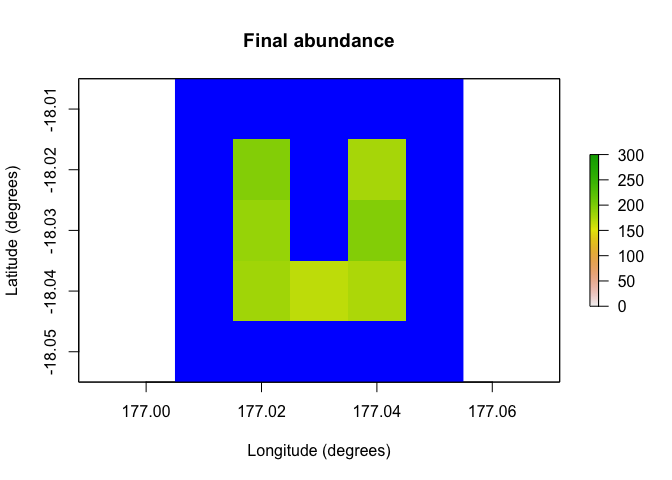
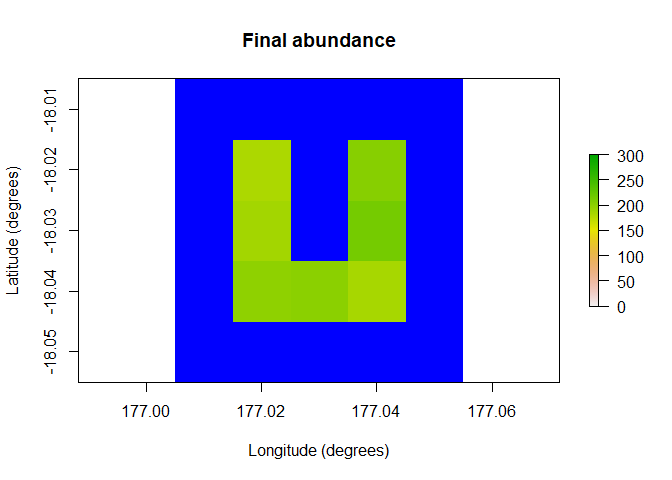
CRAN preparation

diff --git a/README.md b/README.md
@@ -1,10 +1,9 @@
 
 <!-- README.md is generated from README.Rmd. Please edit that file -->
 
-# poems: Pattern-oriented ensemble modelling system for spatially explicit population simulations
+# poems: Pattern-oriented ensemble modelling system (for spatially explicit population simulations)
 
 <!-- badges: start -->
-
 <!-- badges: end -->
 
 The poems package provides a framework of interoperable *R6* (Chang,
@@ -27,13 +26,13 @@ Bayesian computation (ABC) approach (Beaumont et al., 2002) using the
 *abc* package (Csillery et al., 2015). However, alternative user-defined
 functionality could be employed.
 
-The package includes a customizable spatially explicit demographic
-population model simulation engine, which incorporates default
-functionality for density dependence, correlated environmental
-stochasiticity, stage-based transitions, and distance-based dispersal.
-The user may also define functionality for translocations, harvesting,
-mortality, and other processes, as well as define the sequence order for
-the simulator processes. The framework could also be adapted for use
+The package includes a spatially explicit demographic population model
+simulation engine, which incorporates default functionality for density
+dependence, correlated environmental stochasticity, stage-based
+transitions, and distance-based dispersal. The user may customize the
+simulator by defining functionality for trans-locations, harvesting,
+mortality, and other processes, as well as defining the sequence order
+for the simulator processes. The framework could also be adapted for use
 with other model simulators by utilizing its extendable (inheritable)
 base classes.
 
@@ -76,7 +75,6 @@ raster::plot(region$raster_from_values(initial_abundance),
 <img src="man/figures/README-example-1.png" width="100%" style="display: block; margin: auto;" />
 
 ``` r
-
 # Set population model
 pop_model <- PopulationModel$new(
   region = region,
@@ -95,47 +93,47 @@ results <- population_simulator(pop_model)
 results # examine
 #> $all
 #> $all$abundance
-#> [1] 1071 1064 1218 1272 1277
+#> [1] 1034 1215 1267 1331 1369
 #> 
 #> $all$abundance_stages
 #> $all$abundance_stages[[1]]
-#> [1] 666 620 743 781 764
+#> [1] 611 735 763 784 837
 #> 
 #> $all$abundance_stages[[2]]
-#> [1] 405 444 475 491 513
+#> [1] 423 480 504 547 532
 #> 
 #> 
 #> 
 #> $abundance
 #>      [,1] [,2] [,3] [,4] [,5]
-#> [1,]   48  101  140  176  196
-#> [2,]   96  136  152  192  177
-#> [3,]  152  156  198  177  186
-#> [4,]  183  165  188  186  196
-#> [5,]  165  171  171  202  181
-#> [6,]  201  176  191  163  166
-#> [7,]  226  159  178  176  175
+#> [1,]   59  133  176  182  182
+#> [2,]   96  123  160  202  203
+#> [3,]  137  186  175  187  187
+#> [4,]  150  177  183  188  214
+#> [5,]  182  186  212  194  198
+#> [6,]  226  189  182  183  201
+#> [7,]  184  221  179  195  184
 #> 
 #> $abundance_stages
 #> $abundance_stages[[1]]
 #>      [,1] [,2] [,3] [,4] [,5]
-#> [1,]   27   64   81  104  114
-#> [2,]   49   83   92  124  109
-#> [3,]  102   86  124  101  116
-#> [4,]  117   92  118  117  114
-#> [5,]   92  102  102  122  115
-#> [6,]  132   98  123  103   92
-#> [7,]  147   95  103  110  104
+#> [1,]   30   78  100  107  106
+#> [2,]   61   71   93  120  116
+#> [3,]   79  107  107  114  113
+#> [4,]   90  111  111  105  135
+#> [5,]  112  110  140  109  125
+#> [6,]  134  117  115  114  115
+#> [7,]  105  141   97  115  127
 #> 
 #> $abundance_stages[[2]]
 #>      [,1] [,2] [,3] [,4] [,5]
-#> [1,]   21   37   59   72   82
-#> [2,]   47   53   60   68   68
-#> [3,]   50   70   74   76   70
-#> [4,]   66   73   70   69   82
-#> [5,]   73   69   69   80   66
-#> [6,]   69   78   68   60   74
-#> [7,]   79   64   75   66   71
+#> [1,]   29   55   76   75   76
+#> [2,]   35   52   67   82   87
+#> [3,]   58   79   68   73   74
+#> [4,]   60   66   72   83   79
+#> [5,]   70   76   72   85   73
+#> [6,]   92   72   67   69   86
+#> [7,]   79   80   82   80   57
 raster::plot(region$raster_from_values(results$abundance[,5]),
              main = "Final abundance", xlab = "Longitude (degrees)", 
              ylab = "Latitude (degrees)", zlim = c(0, 300), colNA = "blue")

diff --git a/cran-comments.md b/cran-comments.md
@@ -1,0 +1,29 @@
+## Test environments
+* local OS X (10.12.6) install, R 3.6.2
+* win-builder (devel and release)
+
+## R CMD check results
+There were no ERRORs or WARNINGs.
+
+There were 3 NOTEs reported but only 2 present (due to new submission of package):
+
+** running examples for arch 'i386' ... [67s] NOTE
+Examples with CPU (user + system) or elapsed time > 10s
+                   user system elapsed
+DispersalFriction  6.77   0.17   19.94
+poems              1.51   0.08   19.76
+DispersalGenerator 0.97   0.00   13.53
+
+** running examples for arch 'x64' ... [72s] NOTE
+Examples with CPU (user + system) or elapsed time > 10s
+                   user system elapsed
+DispersalFriction  7.22   0.44   20.91
+poems              1.81   0.14   21.25
+DispersalGenerator 0.96   0.00   14.40
+
+The package performs substantial computations and/or parallel processing 
+in these examples. The examples utilize trivial/small data sets and cannot
+be reduced or simplified to demonstrate their functionality.
+
+## Downstream dependencies
+There are currently no downstream dependencies for this package.

diff --git a/NEWS.md b/NEWS.md
@@ -1,0 +1,2 @@
+# poems 1.0.0
+* Initial public release
